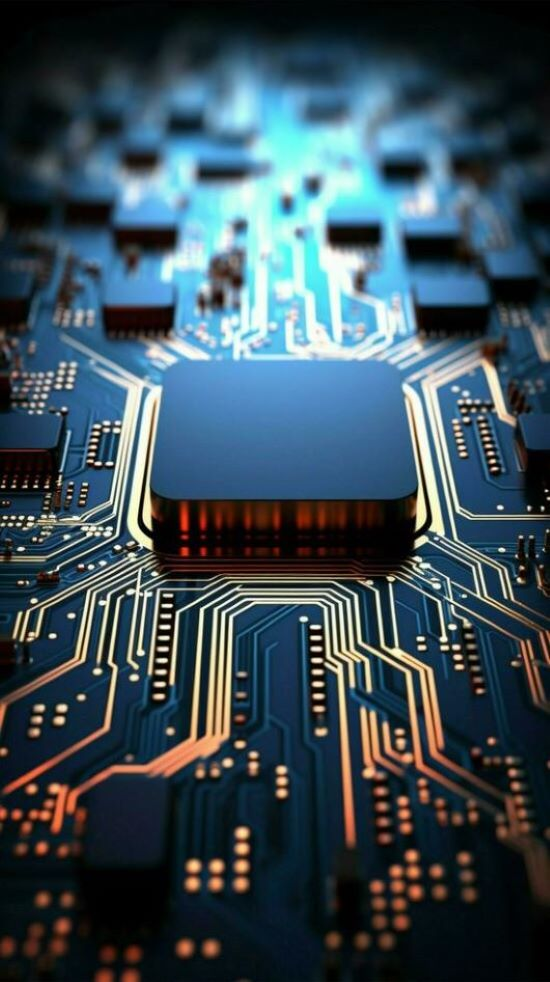
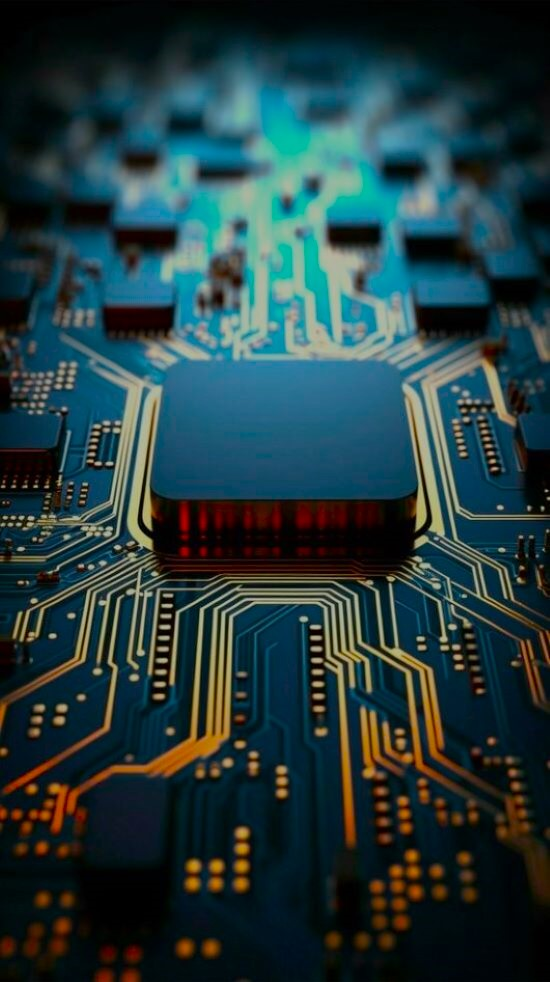
background image editing

diff --git a/src/pages/home/style.tsx b/src/pages/home/style.tsx
@@ -1,9 +1,9 @@
 import { styled } from "@/styles/stitches.config";
 import { Flex } from "@/styles/Global";
 import { Button } from "@/styles/Buttons";
-import { css } from "@stitches/react";
+//import { css } from "@stitches/react";
 
-import meIlustration from "@/public/static/img/background/background_2.svg";
+//import meIlustration from "@/public/static/img/background/background_2.svg";
 import backgroundImg from "@/public/static/img/background/tech.jpg";
 
 import dots from "@/public/static/img/background/dots.svg";
